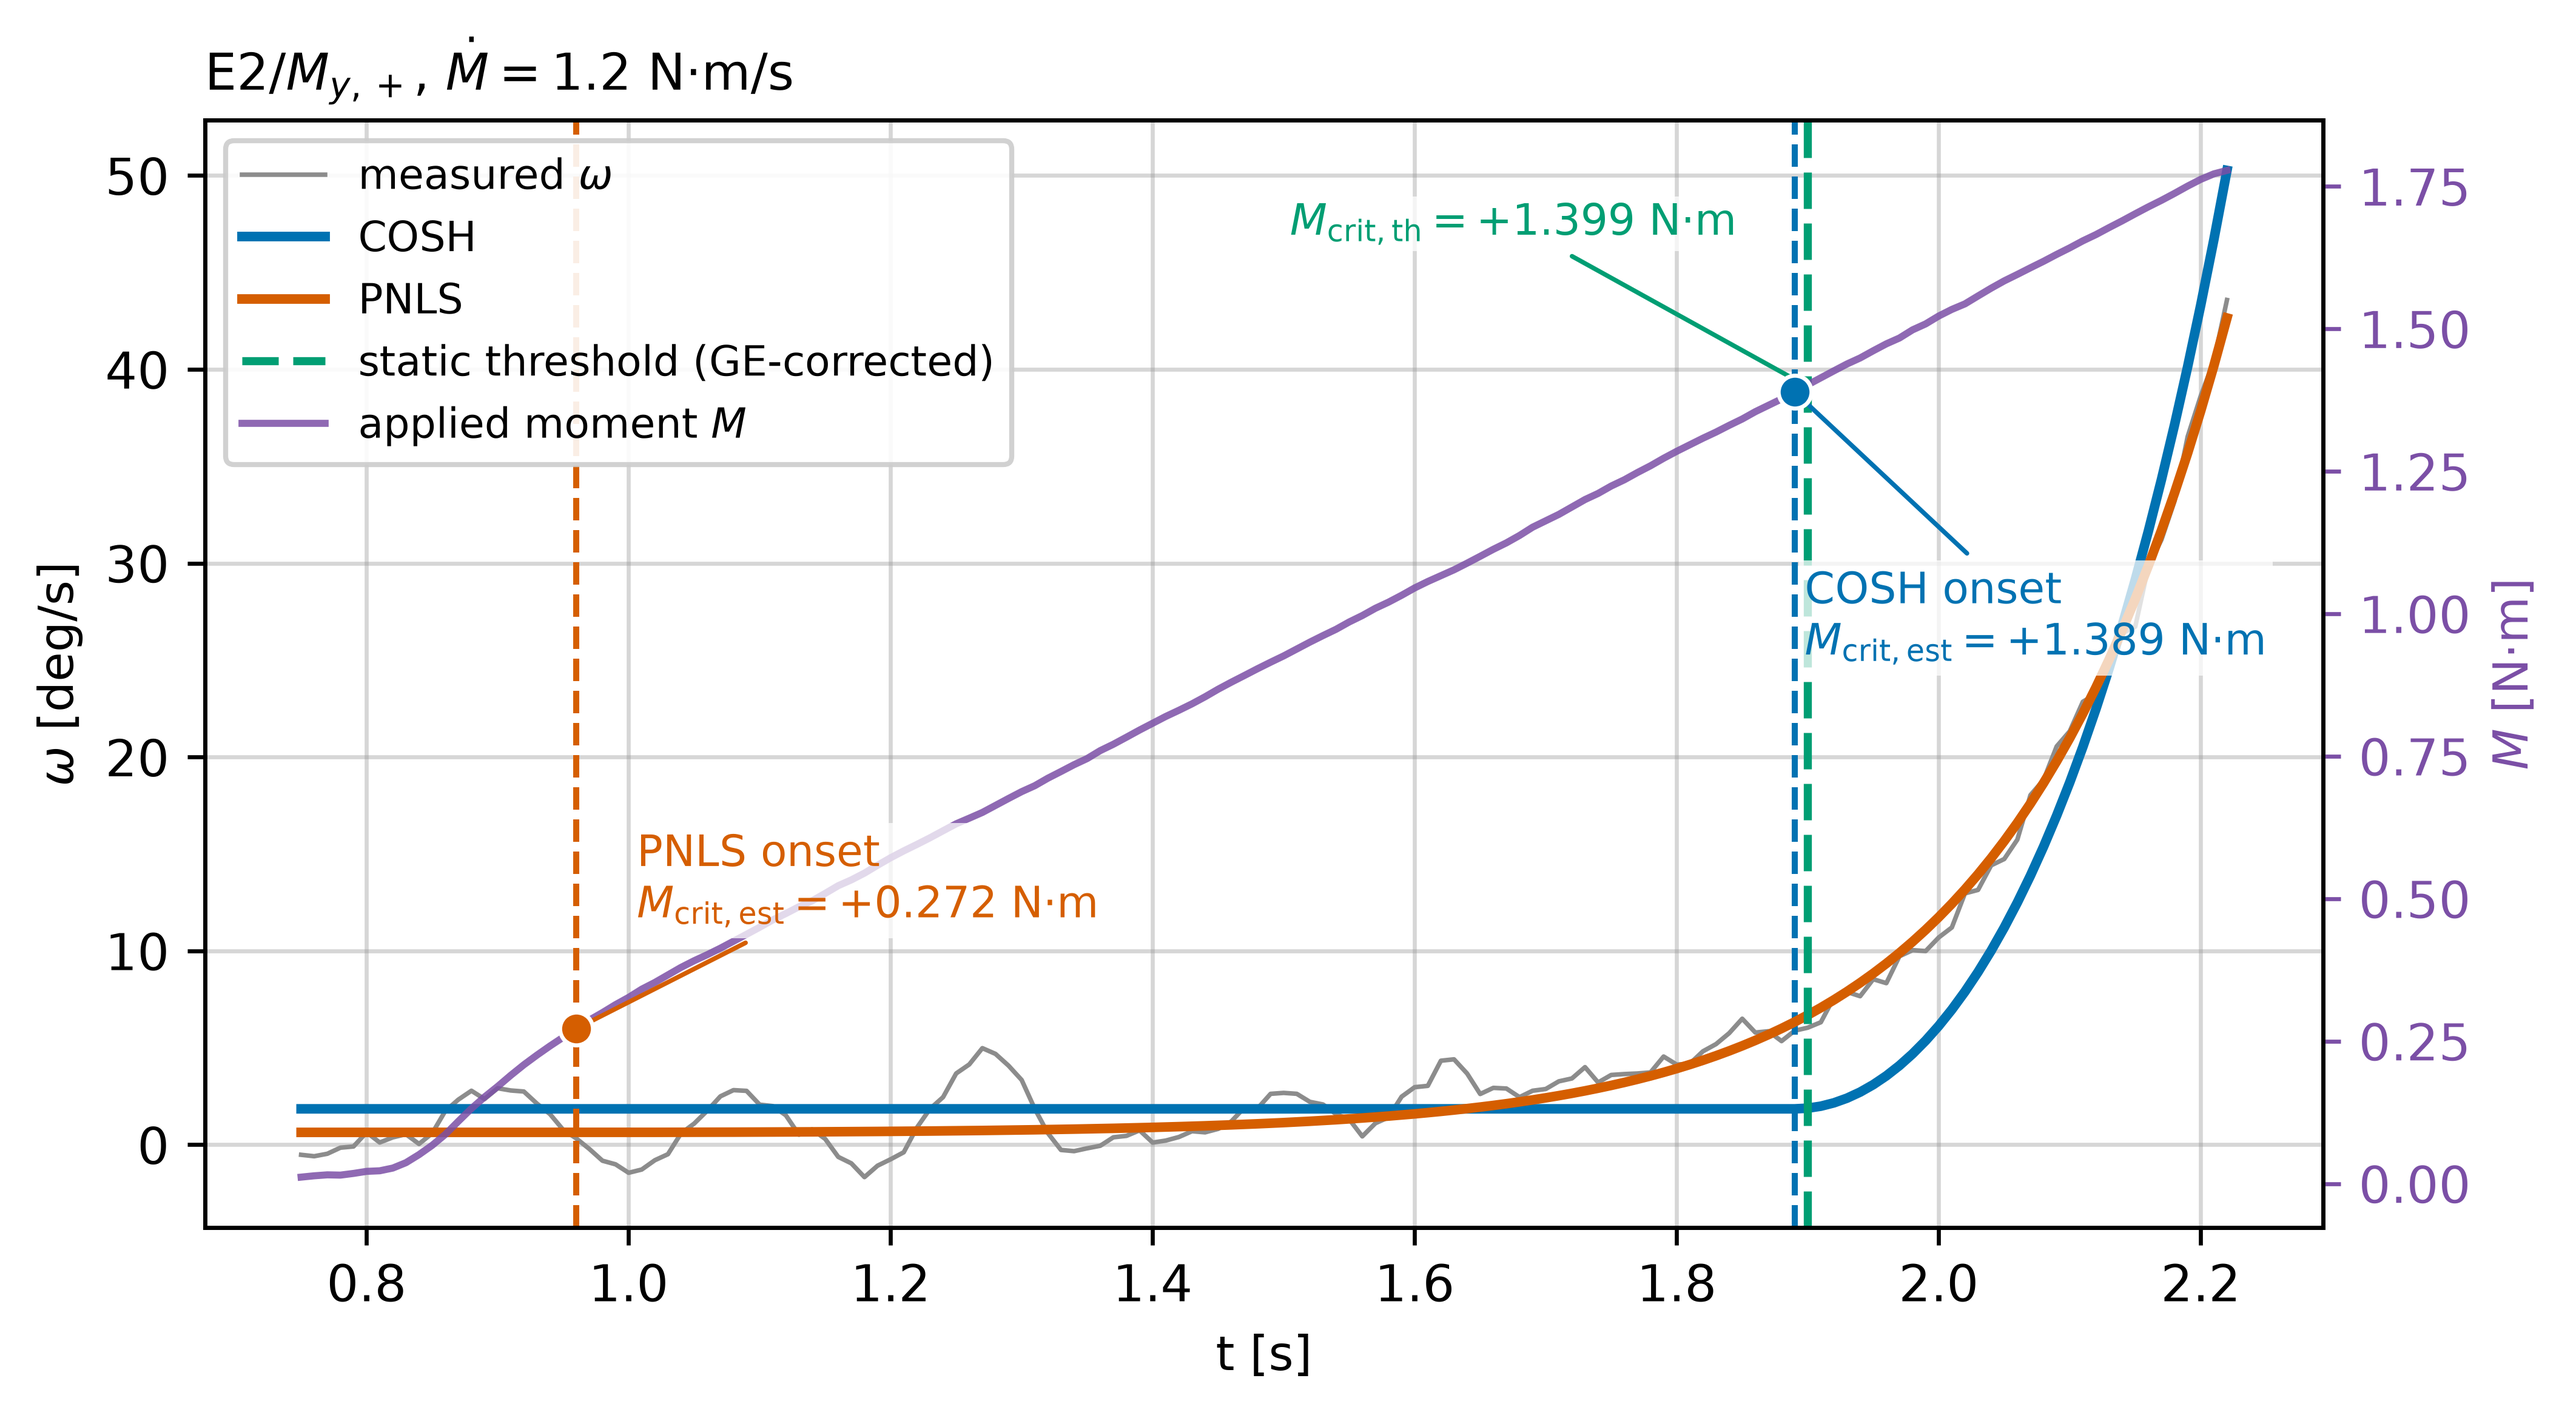
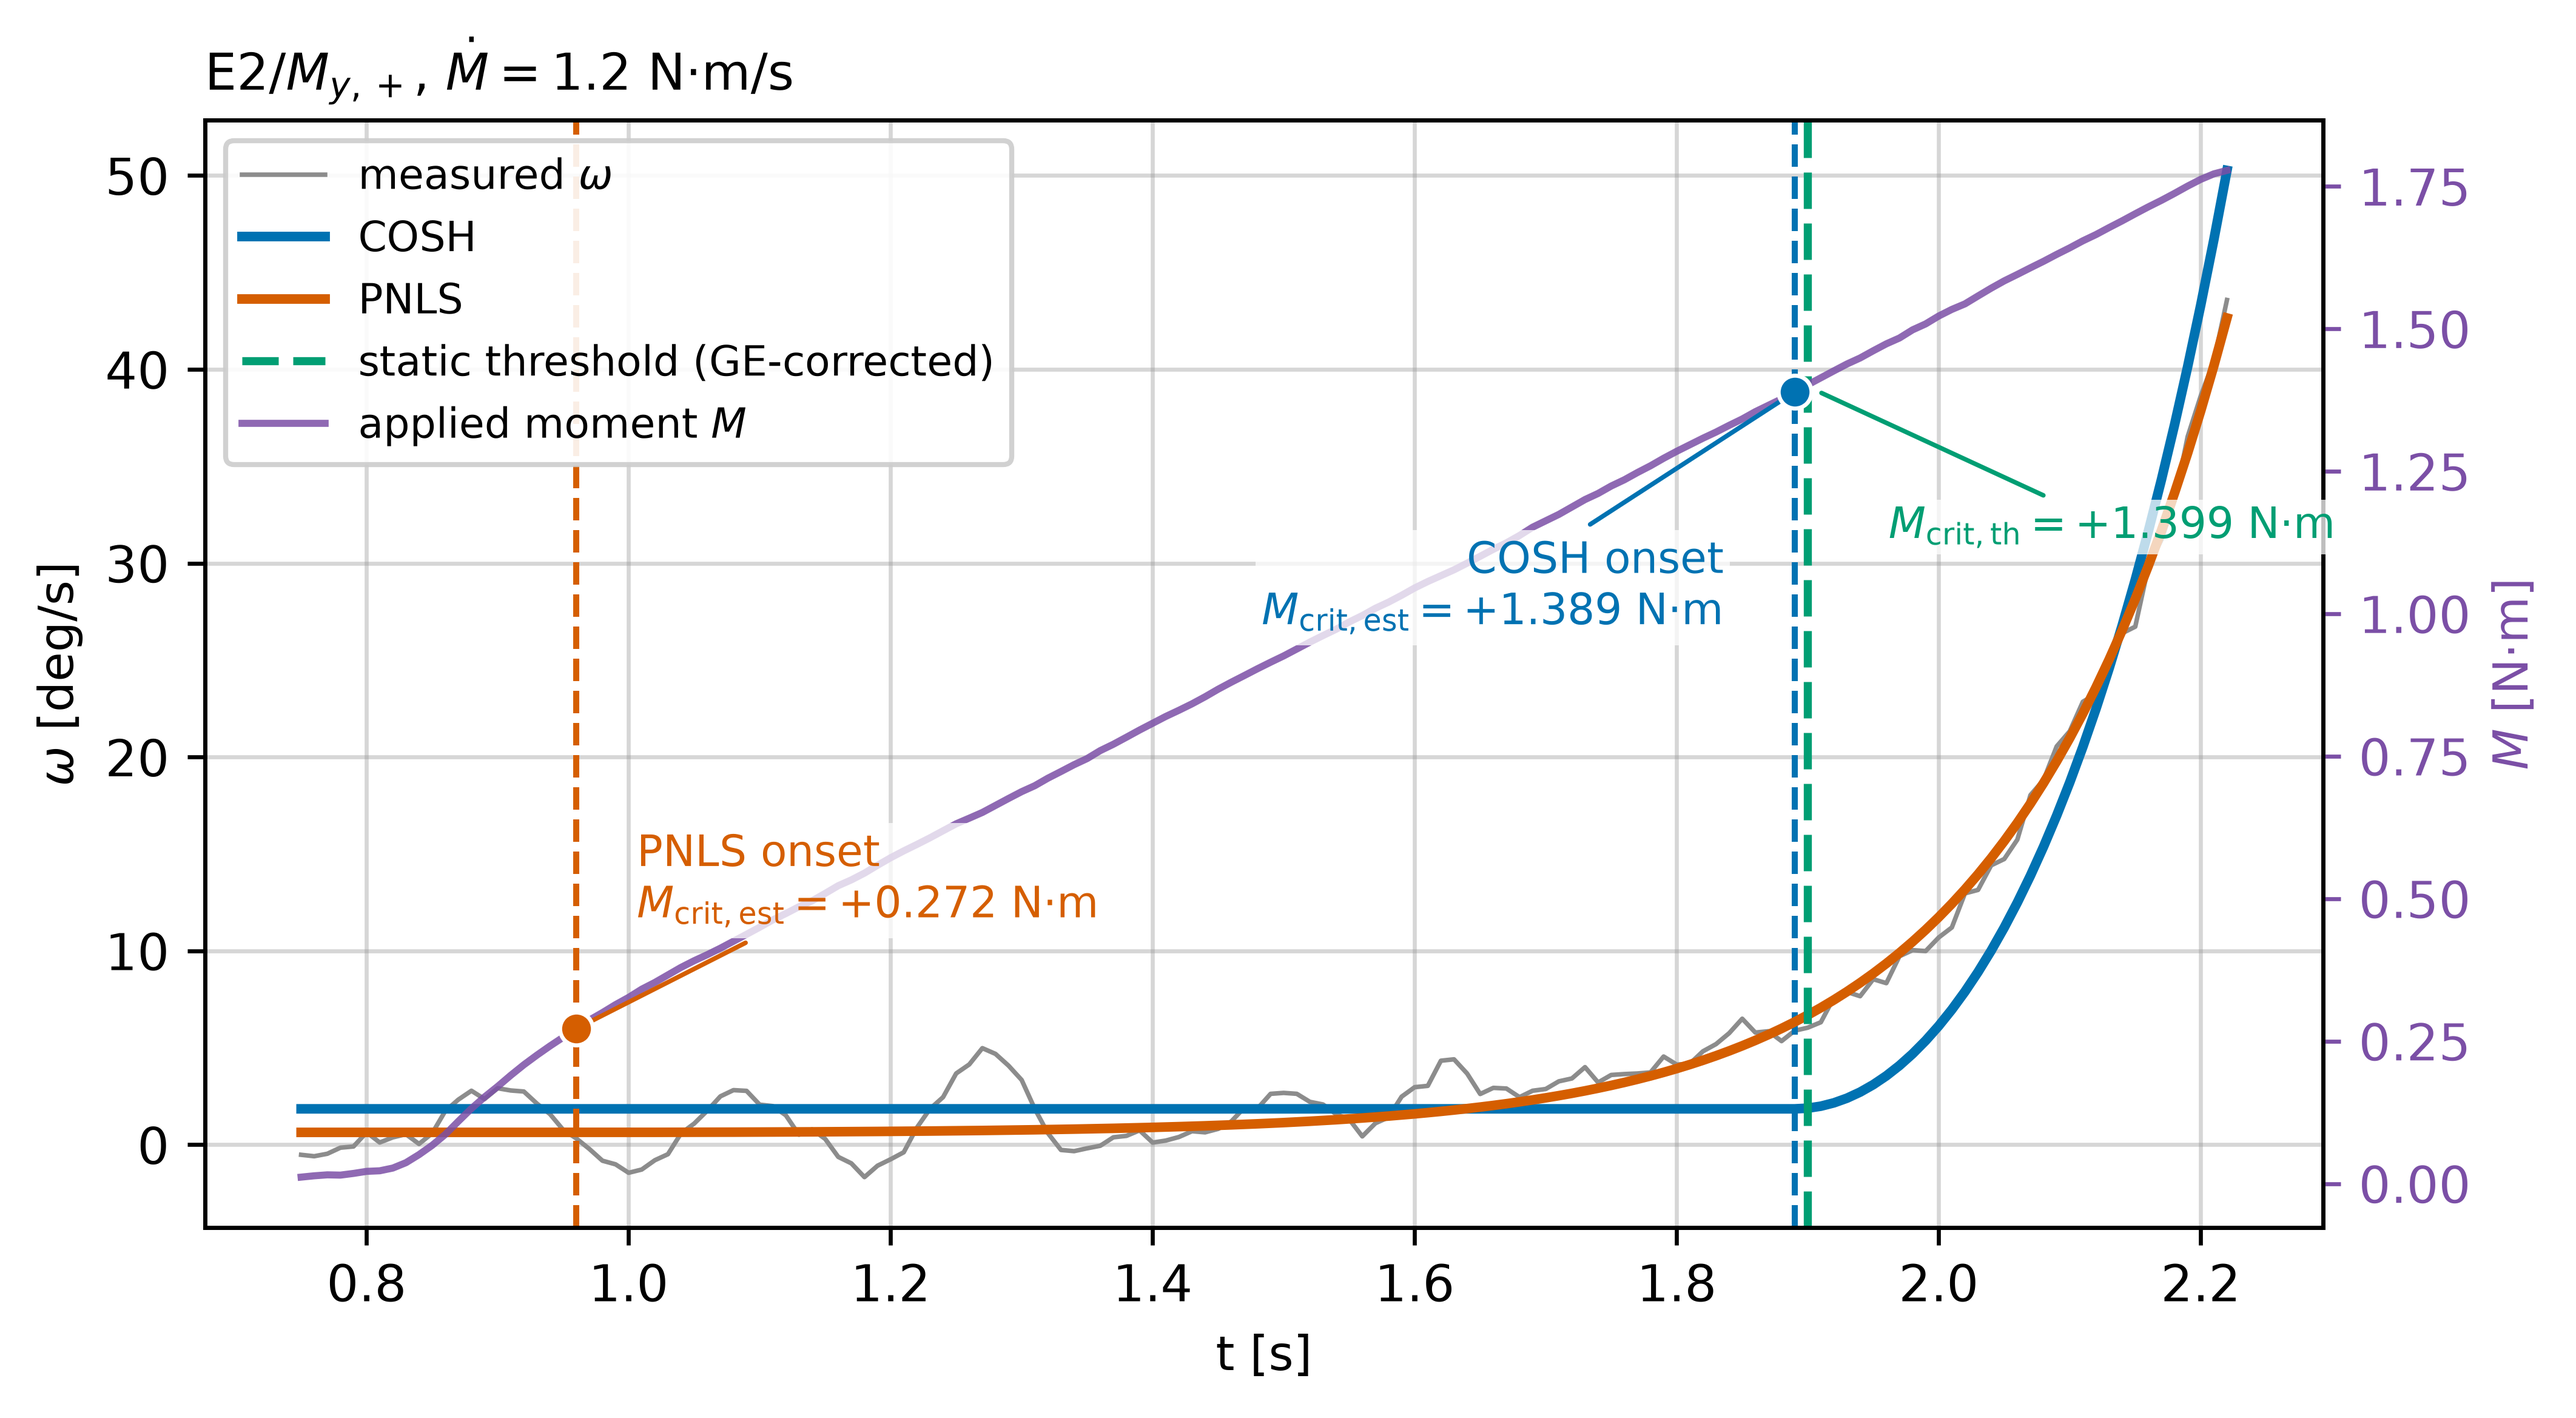
Place the COSH onset annotation lower left and the threshold lower right

diff --git a/analysis/exp_fit_comparison.py b/analysis/exp_fit_comparison.py
@@ -96,7 +96,7 @@ def main():
         ax2.plot(crit.onset_time, crit.onset_moment, 'o', color=col,
                  ms=6.5, mec='white', mew=0.8, zorder=6)
         dx, dy, ha = ((12, 22, 'left') if lab == 'PNLS'
-                      else (2, -52, 'left'))
+                      else (-14, -46, 'right'))
         ax2.annotate(f'{lab} onset\n$M_{{\\mathrm{{crit,est}}}}'
                      f' = {crit.onset_moment:+.3f}$ N·m',
                      xy=(crit.onset_time, crit.onset_moment),
@@ -109,9 +109,9 @@ def main():
     ax.axvline(t_th, color='#009E73', lw=1.6, ls=(0, (4.5, 1.8)),
                label='static threshold (GE-corrected)')
     ax2.annotate(f'$M_{{\\mathrm{{crit,th}}}} = {m_th:+.3f}$ N·m',
-                 xy=(t_th, m_th), xytext=(-14, 30),
+                 xy=(t_th, m_th), xytext=(16, -30),
                  textcoords='offset points', fontsize=8.5,
-                 color='#009E73', ha='right',
+                 color='#009E73', ha='left',
                  bbox=dict(facecolor='white', edgecolor='none',
                            alpha=0.75, pad=1.2),
                  arrowprops=dict(arrowstyle='-', color='#009E73',
